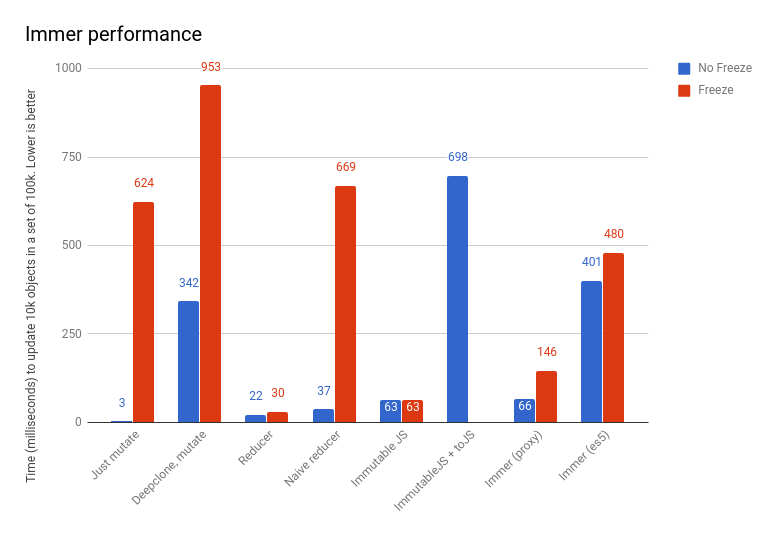
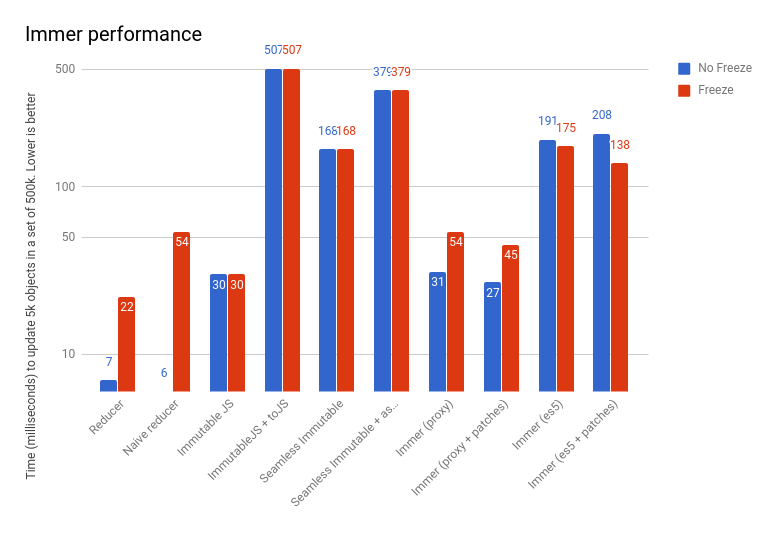
Update readme

diff --git a/__performance_tests__/todo.js b/__performance_tests__/todo.js
@@ -42,7 +42,7 @@ immutableJsBaseState = List(baseState.map(todo => todoRecord(todo)))
 // generate seamless-immutable base state
 seamlessBaseState = Seamless.from(baseState)
 
-console.log("# todo - performance")
+console.log("\n# todo - performance\n")
 
 measure(
     "just mutate",
@@ -213,6 +213,25 @@ measure(
 )
 
 measure(
+    "immer (proxy) - with autofreeze - with patch listener",
+    () => {
+        setUseProxies(true)
+        setAutoFreeze(true)
+    },
+    () => {
+        produce(
+            baseState,
+            draft => {
+                for (let i = 0; i < MAX * MODIFY_FACTOR; i++) {
+                    draft[i].done = true
+                }
+            },
+            function() {}
+        )
+    }
+)
+
+measure(
     "immer (es5) - without autofreeze",
     () => {
         setUseProxies(false)
@@ -247,6 +266,25 @@ measure(
     () => {
         setUseProxies(false)
         setAutoFreeze(false)
+    },
+    () => {
+        produce(
+            baseState,
+            draft => {
+                for (let i = 0; i < MAX * MODIFY_FACTOR; i++) {
+                    draft[i].done = true
+                }
+            },
+            function() {}
+        )
+    }
+)
+
+measure(
+    "immer (es5) - with autofreeze - with patch listener",
+    () => {
+        setUseProxies(false)
+        setAutoFreeze(true)
     },
     () => {
         produce(

diff --git a/__performance_tests__/add-data.js b/__performance_tests__/add-data.js
@@ -7,7 +7,7 @@ import {fromJS} from "immutable"
 import Seamless from "seamless-immutable"
 import deepFreeze from "deep-freeze"
 
-console.log("# add-data - loading large set of data")
+console.log("\n# add-data - loading large set of data\n")
 
 const dataSet = require("./data.json")
 const baseState = {

diff --git a/__performance_tests__/incremental.js b/__performance_tests__/incremental.js
@@ -4,6 +4,8 @@ import produce, {setAutoFreeze, setUseProxies} from "../dist/immer.umd.js"
 import cloneDeep from "lodash.clonedeep"
 import * as Immutable from "immutable"
 
+console.log("\n# incremental - lot of small incremental changes\n")
+
 function createTestObject() {
     return {
         a: 1,

diff --git a/readme.md b/readme.md
@@ -224,6 +224,12 @@ const byId = produce(
 
 During the run of a producer, Immer can record all the patches that would replay the changes made by the reducer.
 This is a very powerful tool if you want to fork your state temporarily, and replay the changes to the original.
+
+Patches are useful in few scenarios:
+  * To exchange incremental updates with other parties, for example over websockets
+  * For debugging / traces, to see precisely how state is changed over time
+  * As basis for undo/redo or as approach to replay changes on a slightly different state tree
+
 To help with replaying patches, `applyPatches` comes in handy. Here is an example how patches could be used
 to record the incremental updates and (inverse) apply them:
 
@@ -488,21 +494,18 @@ const updatedTodosArray = produce(todosArray, draft => {
 
 ## Performance
 
-Here is a [simple benchmark](__performance_tests__/todo.js) on the performance of Immer. This test takes 100.000 todo items, and updates 10.000 of them. _Freeze_ indicates that the state tree has been frozen after producing it. This is a _development_ best practice, as it prevents developers from accidentally modifying the state tree.
+Here is a [simple benchmark](__performance_tests__/todo.js) on the performance of Immer. This test takes 50,000 todo items, and updates 5,000 of them. _Freeze_ indicates that the state tree has been frozen after producing it. This is a _development_ best practice, as it prevents developers from accidentally modifying the state tree.
 
-These tests were executed on Node 8.4.0. Use `yarn test:perf` to reproduce them locally.
+These tests were executed on Node 9.3.0. Use `yarn test:perf` to reproduce them locally.
 
 ![performance.png](images/performance.png)
 
-Some observations:
+Most important observation:
 
-* From `immer` perspective, this benchmark is a _worst case_ scenario, because the root collection it has to proxy is really large relatively to the rest of the data set.
-* The _mutate_, and _deepclone, mutate_ benchmarks establish a baseline on how expensive changing the data is, without immutability (or structural sharing in the deep clone case).
-* The _reducer_ and _naive reducer_ are implemented in typical Redux style reducers. The "smart" implementation slices the collection first, and then maps and freezes only the relevant todos. The "naive" implementation just maps over and processes the entire collection.
-* Immer with proxies is roughly speaking twice as slow as a hand written reducer. This is in practice negligible.
+* Immer with proxies is roughly speaking twice to three times slower as a hand written reducer (the above test case is worst case, se `yarn test:perf` for more tests). This is in practice negligible.
 * Immer is roughly as fast as ImmutableJS. However, the _immutableJS + toJS_ makes clear the cost that often needs to be paid later; converting the immutableJS objects back to plain objects, to be able to pass them to components, over the network etc... (And there is also the upfront cost of converting data received from e.g. the server to immutable JS)
-* The ES5 implementation of Immer is significantly slower. For most reducers this won't matter, but reducers that process large amounts of data might benefit from not (or only partially) using an Immer producer. Luckily, Immer is fully opt-in.
-* The peaks in the _frozen_ versions of _just mutate_, _deepclone_ and _naive reducer_ come from the fact that they recursively freeze the full state tree, while the other test cases only freeze the modified parts of the tree.
+* Generating patches doesn't significantly slow immer down
+* The ES5 fallback implementation is roughly twice as slow as the proxy implementation, in some cases worse.
 
 ## FAQ
 
